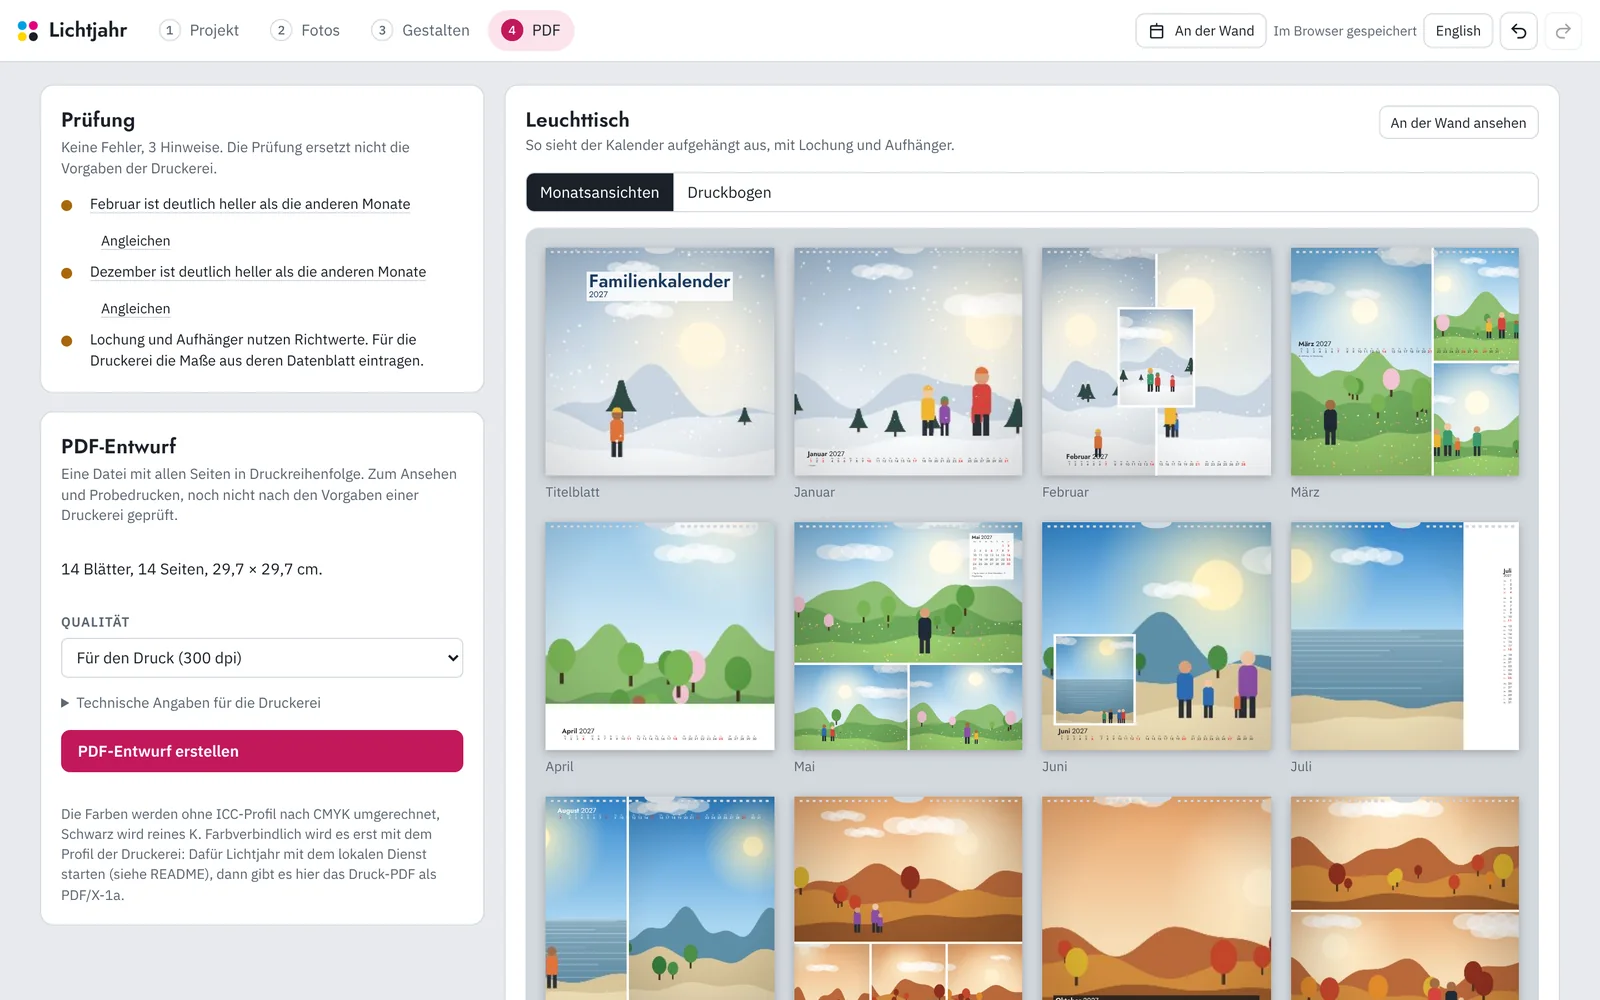
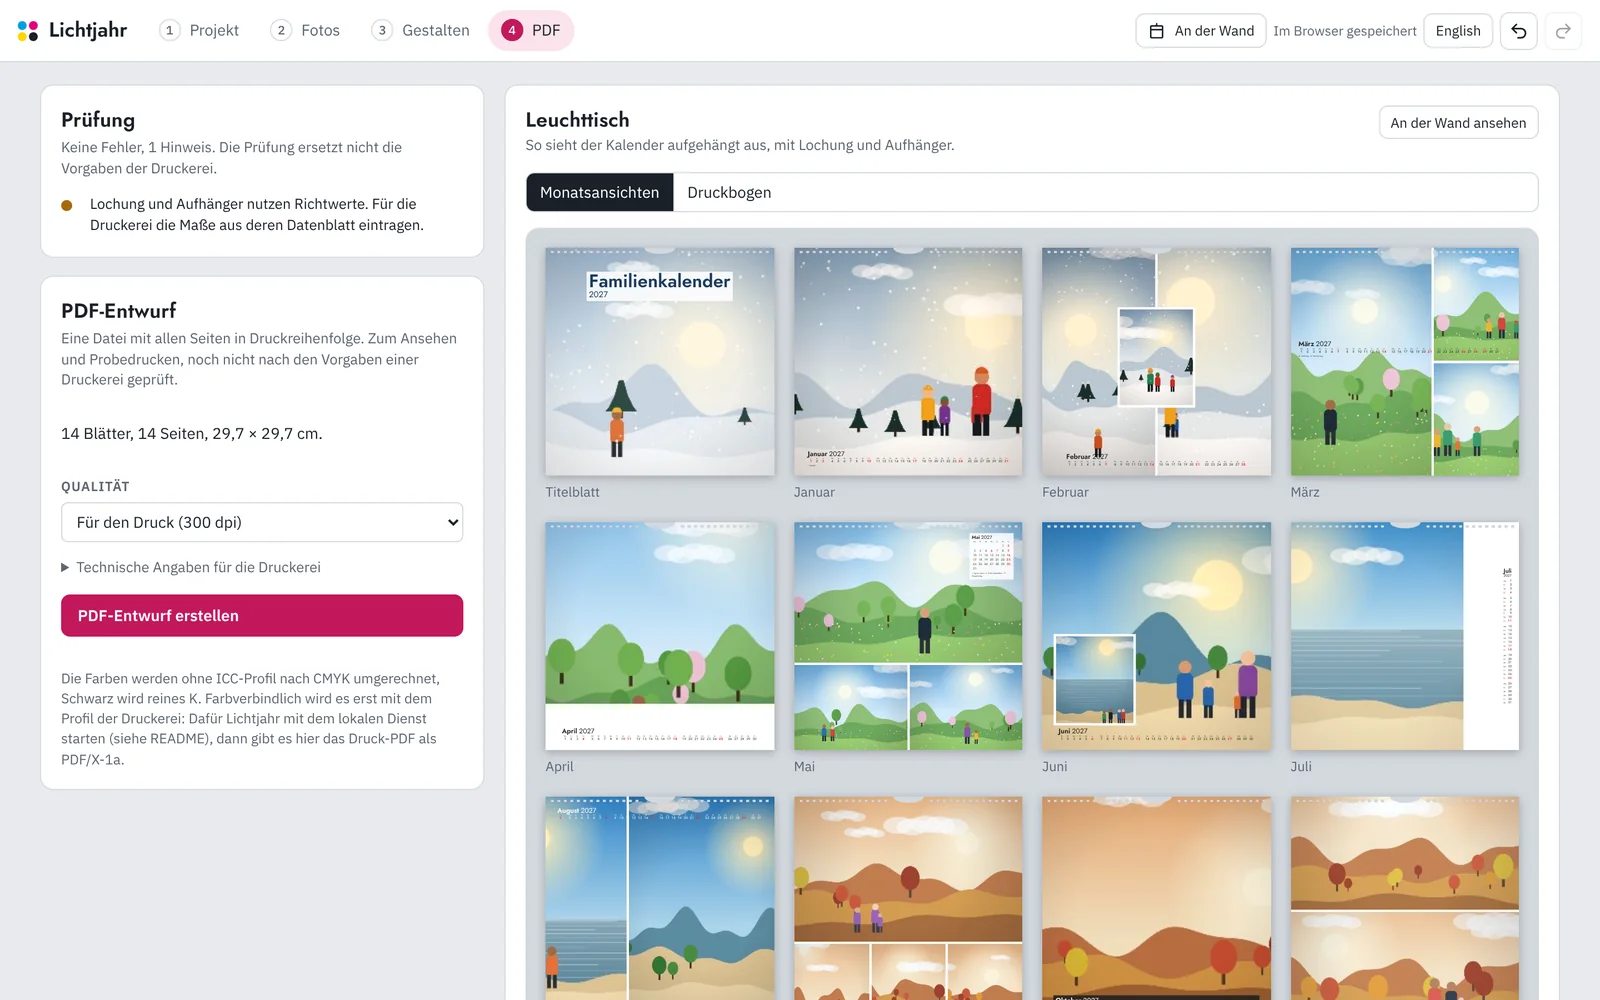
Fix check-list buttons, screenshot overlap, face test cache and notes
- .checks li button no longer resets .btn buttons (fix buttons had lost their style)
- Service screenshots: header no longer covers the cards
- README sample: months matched before capture, so no outlier hints in the images
- Face tests keep the SFace model in .pytest_cache; a wrong LICHTJAHR_SFACE path skips with a clear reason
- CONTRIBUTING: Node.js and OpenCV requirements in the backend setup section

Claude-Session: https://claude.ai/code/session_019n7nwYECAPiHJDbBoTsf1A

diff --git a/prototyp/dist/index.html b/prototyp/dist/index.html
@@ -214,7 +214,7 @@ input[type=checkbox] { accent-color: var(--accent); width: 16px; height: 16px; }
 .print { padding: 20px 16px 60px; max-width: 1400px; margin: 0 auto; display: grid; grid-template-columns: minmax(0, 400px) minmax(0, 1fr); gap: 18px; align-items: start; }
 .checks { list-style: none; margin: 0; padding: 0; display: grid; gap: 6px; }
 .checks li { display: grid; grid-template-columns: 18px minmax(0, 1fr); gap: 8px; font-size: 13px; align-items: start; }
-.checks li button { all: unset; cursor: pointer; text-decoration: underline; text-decoration-color: var(--line); text-underline-offset: 3px; }
+.checks li button:not(.btn) { all: unset; cursor: pointer; text-decoration: underline; text-decoration-color: var(--line); text-underline-offset: 3px; }
 .dot { width: 10px; height: 10px; border-radius: 50%; margin-top: 5px; background: var(--ok); }
 .dot.warn { background: var(--warn); } .dot.bad { background: var(--bad); }
 .progress { height: 8px; background: var(--surface-2); border-radius: 999px; overflow: hidden; border: 1px solid var(--line); }

diff --git a/prototyp/dist/kalenderwerkstatt.html b/prototyp/dist/kalenderwerkstatt.html
@@ -205,7 +205,7 @@ input[type=checkbox] { accent-color: var(--accent); width: 16px; height: 16px; }
 .print { padding: 20px 16px 60px; max-width: 1400px; margin: 0 auto; display: grid; grid-template-columns: minmax(0, 400px) minmax(0, 1fr); gap: 18px; align-items: start; }
 .checks { list-style: none; margin: 0; padding: 0; display: grid; gap: 6px; }
 .checks li { display: grid; grid-template-columns: 18px minmax(0, 1fr); gap: 8px; font-size: 13px; align-items: start; }
-.checks li button { all: unset; cursor: pointer; text-decoration: underline; text-decoration-color: var(--line); text-underline-offset: 3px; }
+.checks li button:not(.btn) { all: unset; cursor: pointer; text-decoration: underline; text-decoration-color: var(--line); text-underline-offset: 3px; }
 .dot { width: 10px; height: 10px; border-radius: 50%; margin-top: 5px; background: var(--ok); }
 .dot.warn { background: var(--warn); } .dot.bad { background: var(--bad); }
 .progress { height: 8px; background: var(--surface-2); border-radius: 999px; overflow: hidden; border: 1px solid var(--line); }

diff --git a/prototyp/src/style.css b/prototyp/src/style.css
@@ -201,7 +201,7 @@ input[type=checkbox] { accent-color: var(--accent); width: 16px; height: 16px; }
 .print { padding: 20px 16px 60px; max-width: 1400px; margin: 0 auto; display: grid; grid-template-columns: minmax(0, 400px) minmax(0, 1fr); gap: 18px; align-items: start; }
 .checks { list-style: none; margin: 0; padding: 0; display: grid; gap: 6px; }
 .checks li { display: grid; grid-template-columns: 18px minmax(0, 1fr); gap: 8px; font-size: 13px; align-items: start; }
-.checks li button { all: unset; cursor: pointer; text-decoration: underline; text-decoration-color: var(--line); text-underline-offset: 3px; }
+.checks li button:not(.btn) { all: unset; cursor: pointer; text-decoration: underline; text-decoration-color: var(--line); text-underline-offset: 3px; }
 .dot { width: 10px; height: 10px; border-radius: 50%; margin-top: 5px; background: var(--ok); }
 .dot.warn { background: var(--warn); } .dot.bad { background: var(--bad); }
 .progress { height: 8px; background: var(--surface-2); border-radius: 999px; overflow: hidden; border: 1px solid var(--line); }

diff --git a/backend/tests/test_people.py b/backend/tests/test_people.py
@@ -18,19 +18,20 @@ pytestmark = pytest.mark.skipif(not faces.available(), reason="OpenCV fehlt")
 
 
 @pytest.fixture(scope="session")
-def model_dir(tmp_path_factory):
-    """Modell aus LICHTJAHR_SFACE (Pfad) oder einmal laden; ohne Netz wird übersprungen."""
-    d = str(tmp_path_factory.mktemp("models-data"))
+def model_dir(request):
+    """Modell aus LICHTJAHR_SFACE (Pfad) oder einmal laden und im pytest-Cache behalten; ohne Modell wird übersprungen."""
+    d = str(request.config.cache.mkdir("sface"))
     given = os.environ.get("LICHTJAHR_SFACE")
-    if given and os.path.exists(given):
+    if given:
+        if not os.path.isfile(given) or os.path.getsize(given) != faces.REC_SIZE:
+            pytest.skip(f"LICHTJAHR_SFACE zeigt nicht auf das Modell {faces.REC_FILE}: {given}")
         os.makedirs(os.path.dirname(faces.recognizer_path(d)), exist_ok=True)
         shutil.copy(given, faces.recognizer_path(d))
-    else:
+    elif not faces.recognizer_ready(d):
         try:
             faces.download_recognizer(d)
         except Exception as e:                       # kein Netz in dieser Umgebung
             pytest.skip(f"Erkennungsmodell nicht verfügbar: {e}")
-    assert faces.recognizer_ready(d)
     return d
 
 

diff --git a/CONTRIBUTING.md b/CONTRIBUTING.md
@@ -72,6 +72,11 @@ pytest
 - New features come with tests. The lock tests start several processes – please don't weaken them.
 - Print PDF (`lichtjahr/printing.py`, tests in `tests/test_printing.py`): only check in ICC profiles that may
   be freely redistributed (see `lichtjahr/icc/README.md`); ECI and Adobe profiles do not belong in the repository.
+- The parity test in `tests/test_adjust.py` runs the app's photo enhancement JavaScript in **Node.js** and compares
+  it with numpy; without `node` on the PATH it is skipped.
+- The face tests need OpenCV (installed with the package). The recognition tests download the SFace model (10 MB)
+  on the first run and keep it in `.pytest_cache`; offline, point `LICHTJAHR_SFACE` to the file
+  `face_recognition_sface_2021dec_int8.onnx`. Without the model, or if the path is wrong, they are skipped.
 
 ## Checks before a pull request
 
@@ -83,9 +88,8 @@ pytest
   (e.g. a browser and a PDF viewer).
 - For changes to the service or its connection (`prototyp/src/b1_service.js`): `node tools/e2e-dienst.cjs`
   starts the service with test photos and runs through the most important workflows in the browser.
-- For changes to photo enhancement (`prototyp/src/b4_adjust.js` or `apply_adjust` in the service): the parity test in
-  `backend/tests/test_adjust.py` runs the app's JavaScript in Node against numpy, so preview and print stay identical.
-- Face recognition tests download the SFace model once (10 MB); offline, point `LICHTJAHR_SFACE` to a local copy or they are skipped.
+- For changes to photo enhancement (`prototyp/src/b4_adjust.js` or `apply_adjust` in the service): run the parity test in
+  `backend/tests/test_adjust.py` (see above) so preview and print stay identical.
 - If the look has changed: `node tools/screenshots.cjs` (browser-only views) and `node tools/screenshots-dienst.cjs`
   (views that need the local service) regenerate the README images in English and German
   (these scripts need Playwright with Chromium and Python with Pillow; `i18n-check.cjs` needs Playwright).
